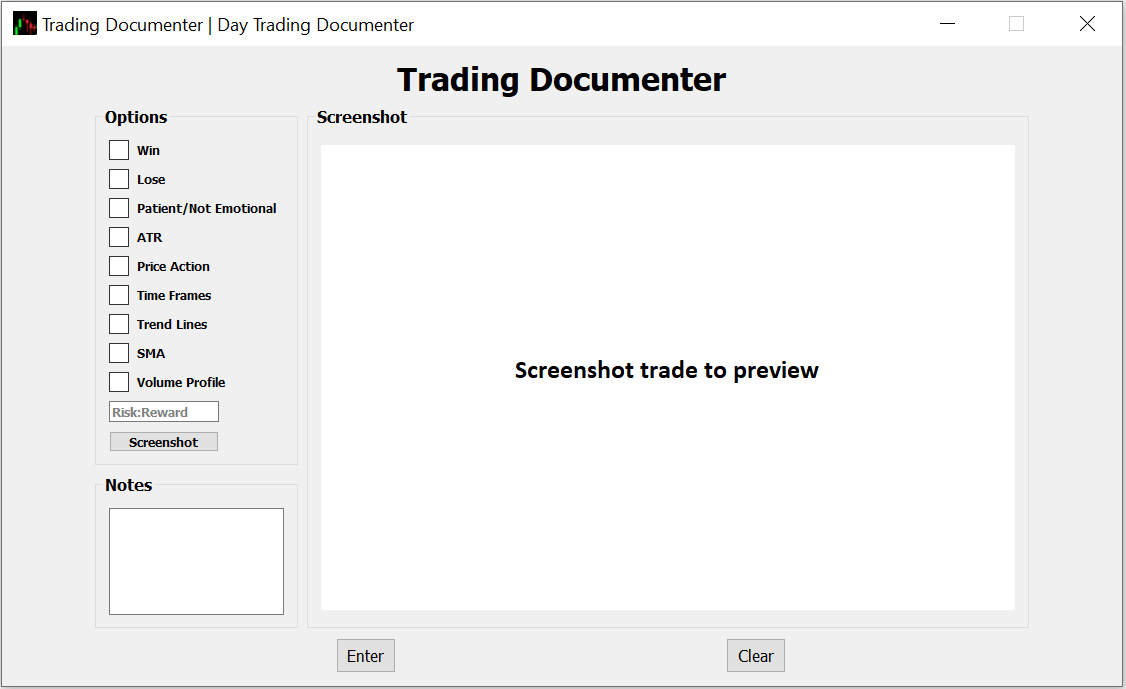
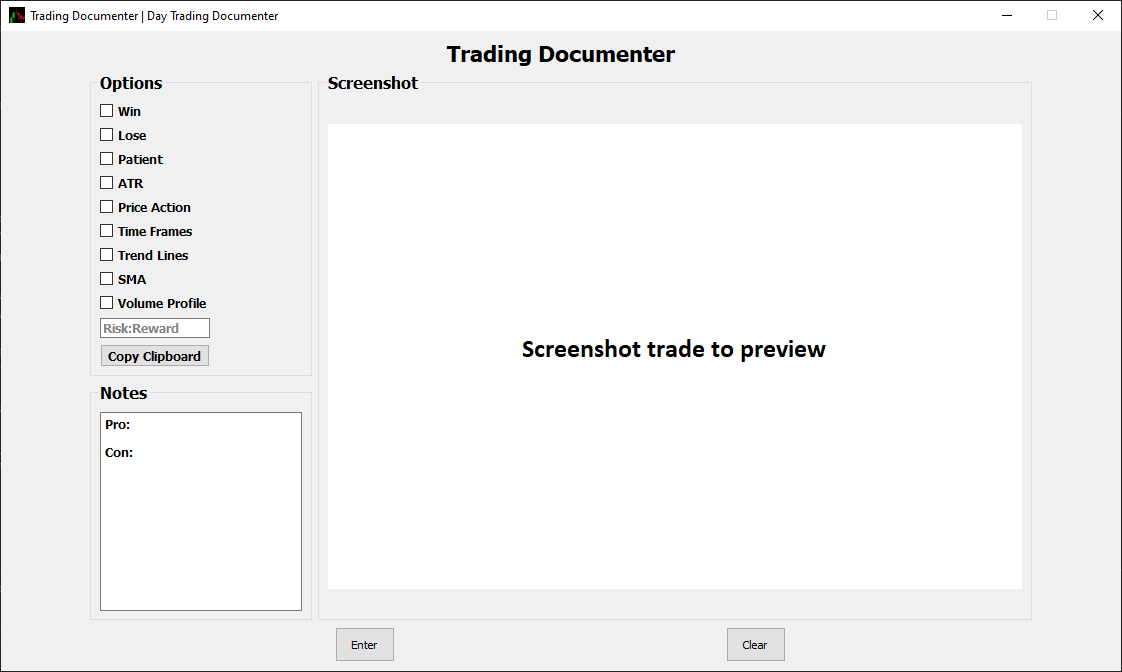
Closes #5, #6, #7. Currently, having problems with tests being discovered. Has to do with imports.

diff --git a/tests/unit/test_append_row.py b/tests/unit/test_append_row.py
@@ -1,5 +1,6 @@
 # test_appendData.py
 
+import datetime
 import os, pytest
 import pandas as pd
 from pandas.testing import assert_frame_equal
@@ -8,39 +9,47 @@ from src.models.trading_documenter_model import TradingDocumenterModel
 """Tests whether row data is appended to the excel file"""
 
 @pytest.fixture
-def sample_row_data():
-    return pd.DataFrame({
-        "Win": "Win",
-        "Lose": "Lose",
-        "Risk:Reward": "1:1.25",
-        "Patient": "Yes",
-        "Not Emotional": "Yes",
-        "ATR": "Yes",
-        "Price Action": "Yes",
-        "Time Frames": "Yes",
-        "Trend Lines": "No",
-        "SMA": "No",
-        "Volume Profile": "No",
-        "Notes": """No""",
-        "Snippet": "data/6-20-2022/"
-    }, index=[0])
+def get_sample_dict():
+    return {"Win": "✓",
+            "Lose": "✗",
+            "Patient": "✗",
+            "ATR": "✓",
+            "Price Action": "✗",
+            "Time Frames": "✓",
+            "Trend Lines": "✗",
+            "SMA": "✓",
+            "Volume Profile": "✓",
+            "Risk:Reward": "1:1.25",
+            "Notes": """Testing""",
+            "Path": "data/6-20-2022/"
+            }
+
 
 @pytest.fixture
-def testing_file_path():
-    return os.path.abspath("tests/unit/fixtures/testing_append_row.xlsx")
+def get_pre_path():
+    return "tests/unit/fixtures/"
 
 @pytest.fixture
-def get_appended_data(testing_file_path):
-    data_frame = pd.read_excel(testing_file_path())
+def get_Abs_Path():
+    pre_path = get_pre_path()
+    folder_and_file_name = datetime.today().strftime("%m-%d-%Y")
+
+    TradingDocumenterModel.AbsPath = os.path.abspath(pre_path + folder_and_file_name + "/" + folder_and_file_name + ".xlsx")
+
+    yield TradingDocumenterModel.AbsPath
+
+    os.removedirs(pre_path + folder_and_file_name + "/")
+
+@pytest.fixture
+def get_appended_data():
+    data_frame = pd.read_excel(TradingDocumenterModel.AbsPath)
     last_row = data_frame.tail(1)
 
     return last_row
 
 def test_if_appendData_working(sample_row_data, testing_file_path, get_appended_data):
-    """sample_row_data should match appended data taken from the excel file"""
+    """get_sample_dict should match appended data taken from the excel file"""
     
-    TradingDocumenterModel.appendData(testing_file_path, sample_row_data)
+    TradingDocumenterModel.appendDataToExcel(get_sample_dict)
 
-    assert assert_frame_equal(get_appended_data(), sample_row_data, check_dtype=False) == None
-    
-    #TODO: Delete created file or data
+    assert assert_frame_equal(get_appended_data, get_sample_dict) == None

diff --git a/src/models/trading_documenter_model.py b/src/models/trading_documenter_model.py
@@ -10,26 +10,56 @@ TradingDocumenterModel implements the modeing of data for the application
 import os
 from datetime import datetime
 
-# Import Pandas for create dataframe and savingin to excel
+# Import openpyxl to create new/empty excel file
+import openpyxl
+
+# Import Pandas for create dataframe and saving to excel
 import pandas as pd
 
 class TradingDocumenterModel():
     """Class that implements the usage of data to be used in the application
     
-    :param str _abs_path: Absolute path of the excel sheet
+    :param str AbsPath: Absolute path of the excel sheet
     """
+
+    AbsPath = ""
 
     def __init__(self) -> None:
         """Model Initializer"""
 
+        self.options = {}
+        self.options['strings_to_formulas'] = False
+        self.options['strings_to_urls'] = False
+
         self._create_excel_file_name()
 
     def _create_excel_file_name(self) -> str:
-        """Creates excel file name and saves as class property"""
+        """Creates excel file name and saves path as class property"""
 
-        today = datetime.today().strftime("%m-%d-%Y")
-        specified_time_and_date = datetime.now().strftime("%m-%d-%Y, %H-%M-%S")
-        self._abs_path = os.path.abspath("data/" + today + "/" + specified_time_and_date + ".xlsx")  
+        # Create abs path
+        pre_path = "data/"
+        folder_and_file_name = datetime.today().strftime("%m-%d-%Y")
+        directory = pre_path + folder_and_file_name + "/"
+        self.AbsPath = os.path.abspath(pre_path + folder_and_file_name + "/" + folder_and_file_name + ".xlsx")  
 
-    def appendDataToExcel(data_dict: dict) -> None:
-        pass
+        if not os.path.exists(directory):
+            os.makedirs(directory)
+
+        # Use openpyxl to create empty excel file
+        wb = openpyxl.Workbook()
+        wb.save(self.AbsPath)
+
+    def appendDataToExcel(self, data_dict: dict) -> None:
+        """Appends dataframe to excel file"""
+
+        # If file was deleted it will recreate
+        if not os.path.exists(self.AbsPath):
+            self._create_excel_file_name("data/")
+
+        # Read in dataframes from excel and concat totgether to be written back to excel
+        df_excel = pd.read_excel(self.AbsPath)
+        data_frame = pd.DataFrame.from_dict([data_dict])
+        result = pd.concat([df_excel, data_frame], ignore_index=True)
+
+        with pd.ExcelWriter(self.AbsPath, engine='openpyxl', mode='a', if_sheet_exists='replace') as writer:
+            result.to_excel(writer, sheet_name="Sheet", index=False)   

diff --git a/tests/unit/test_create_excel_file_name.py b/tests/unit/test_create_excel_file_name.py
@@ -2,19 +2,31 @@
 
 import os
 from datetime import datetime
+
+import pytest
 from src.models.trading_documenter_model import TradingDocumenterModel
 
 
 """Tests the creation of the excel file name based on the current date"""
 
+@pytest.fixture
+def get_pre_path():
+    return "tests/unit/fixtures/"
+
+@pytest.fixture
+def get_Abs_Path():
+    pre_path = get_pre_path()
+    folder_and_file_name = datetime.today().strftime("%m-%d-%Y")
+
+    TradingDocumenterModel.AbsPath = os.path.abspath(pre_path + folder_and_file_name + "/" + folder_and_file_name + ".xlsx")
+
+    yield TradingDocumenterModel.AbsPath
+
+    os.removedirs(pre_path + folder_and_file_name + "/")
+
 def test_if_create_excel_file_name_working():
     """_create_excel_file_name should match current date file name"""
-    
-    today = datetime.today().strftime("%m-%d-%Y")
 
-    directory = "tests/unit/fixtures/" + today + "/"
-    abs_path = os.path.abspath(directory + today + ".xlsx")
+    TradingDocumenterModel._create_excel_file_name()
 
-    assert TradingDocumenterModel._create_excel_file_name() == abs_path
-
-    os.removedirs(directory)
+    assert os.path.exists(get_Abs_Path()) == True

diff --git a/src/controllers/trading_documenter_controller.py b/src/controllers/trading_documenter_controller.py
@@ -46,6 +46,7 @@ class TradingDocumenterController:
         data_dict = self._generate_dict_of_data()
 
         self.model.appendDataToExcel(data_dict)
+        self.view.clearAllValues()
 
     def _generate_dict_of_data(self) -> dict:
         """Generates the data from the values entered into the view"""
@@ -54,7 +55,7 @@ class TradingDocumenterController:
 
         for option in self.view.Options:
             if type(option) == QCheckBox:
-                combined_dict[option.text()] = option.isChecked()
+                combined_dict[option.text()] = "✓" if option.isChecked() == True else "✗"
             if type(option) == QLineEdit:
                 combined_dict["Risk:Reward"] = option.text()
 

diff --git a/src/views/trading_documenter_view.py b/src/views/trading_documenter_view.py
@@ -170,7 +170,7 @@ class TradingDocumenterView(QMainWindow):
             elif data_type == QLineEdit:
                 option.clear()
 
-        self.Notes.clear()
+        self.Notes.setPlainText("""Pro:\n\nCon:\n""")
         self._screenshot_label.setPixmap(QPixmap("imgs/application/filler.PNG"))
 
     def takeScreenshot(self) -> None:

diff --git a/README.md b/README.md
@@ -11,19 +11,22 @@ Trading documenter is a desktop GUI that allows the user to record trades they h
 # Features
 * Checkbox options that easily record reasons why the trade was taken
 * Note box for more detailed description.
-* Takes screenshot of trade
+* Saves snippet from clipboard
 
 # How to use?
-TBD
+* Check whichever boxes that you followed for the current trade
+* Press Windows + Shift + S and take snippet to save to clipboard
+* Press Copy Clipboard button to save snippet
+* Enter in notes for trade
+* Press enter to automatically save data to folder in data/m-d-y
+* Press clear to clear all entered in data and reset to blank fields
 
 # Dependencies
 * PyQt5
 * Pytest
 * Pandas
-* Openpyxl
-* openpyxl_image_loader
 * Pillow
-* PyScreenshot
+* openpyxl
 
 # License
 GPL-v3.0 
